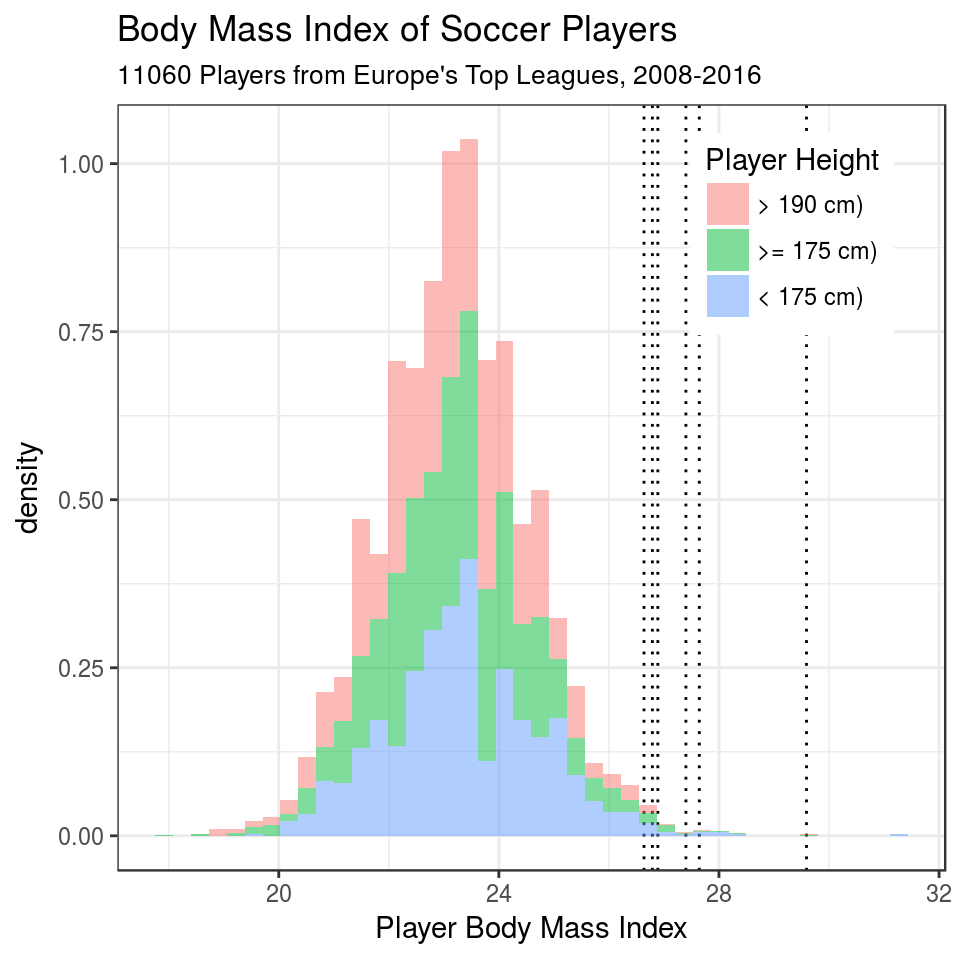
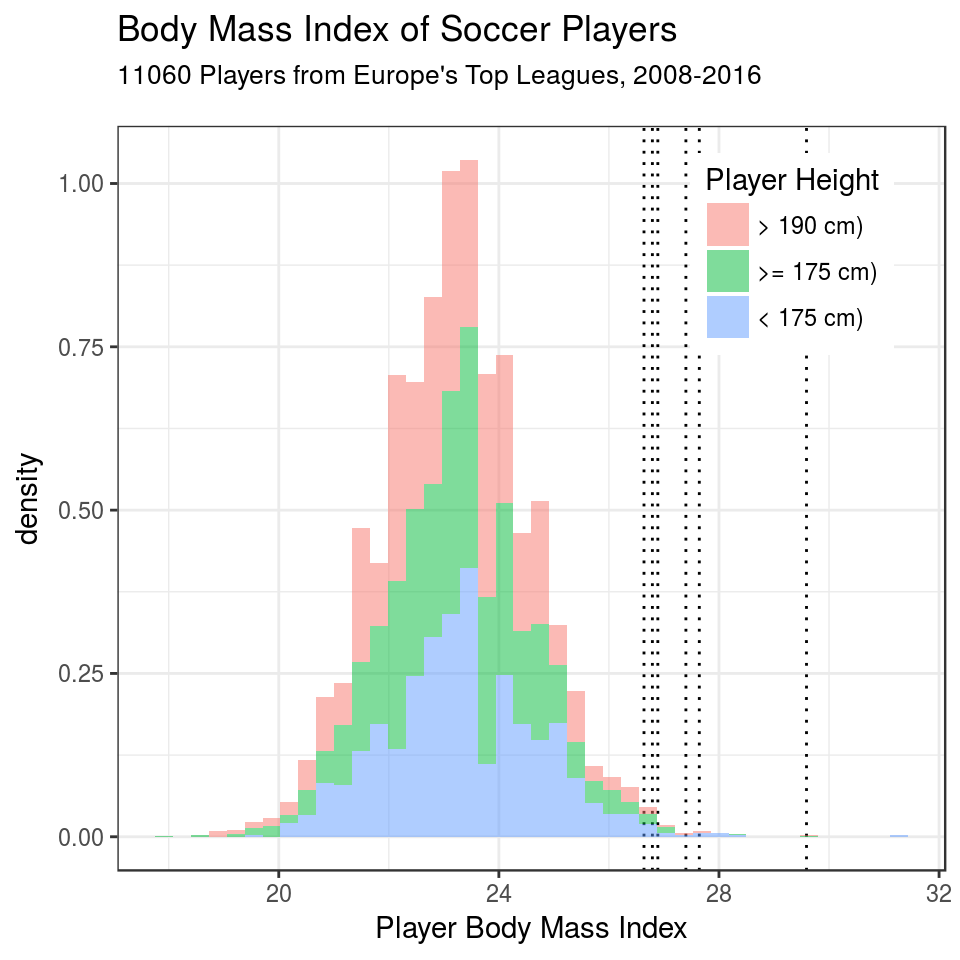
change some histograms, add NHANES us males

diff --git a/public/about/more-about-the-hugo-software/index.html b/public/about/more-about-the-hugo-software/index.html
@@ -1,174 +1,2 @@
-<!-- post/single.html //-->
-<!DOCTYPE html>
-<html lang="en-us">
-        <!-- post/header-post.html //-->
-  <head>
-    <meta charset="utf-8">
-<meta http-equiv="X-UA-Compatible" content="IE=edge">
-<title>More about the Hugo Software</title>
-<meta name="description" content="Knut Behrends&#39; personal blog. A website built through Hugo and blogdown.">
-<meta name="viewport" content="width=device-width, initial-scale=1">
-<meta name="robots" content="all,follow">
-<meta name="googlebot" content="index,follow,snippet,archive">
+<!-- custom layouts/_default/single.html //-->
 
-<link rel="stylesheet" href="/css/bootstrap.min.css">
-<link rel="stylesheet" href="//fonts.googleapis.com/css?family=Roboto:400,300,700,400italic">
-<link rel="stylesheet" href="/css/font-awesome.min.css">
-<link rel="stylesheet" href="/css/owl.carousel.css">
-<link rel="stylesheet" href="/css/owl.theme.css">
-
-
-  <link href="/css/style.green.css" rel="stylesheet" id="theme-stylesheet">
-
- 
-
-  
-    <!--[if lt IE 9]>
-        <script src="https://oss.maxcdn.com/html5shiv/3.7.2/html5shiv.min.js"></script>
-        <script src="https://oss.maxcdn.com/respond/1.4.2/respond.min.js"></script>
-    <![endif]-->
-  
-
-
-<link href="/css/custom.css" rel="stylesheet">
-<link rel="shortcut icon" href="/img/favicon/favicon.png">
-
-
-<script>
-window.ga=window.ga||function(){(ga.q=ga.q||[]).push(arguments)};ga.l=+new Date;
-ga('create', 'UA-38728498-3', 'auto');
-ga('send', 'pageview');
-</script>
-<script async src='//www.google-analytics.com/analytics.js'></script>
-
-
-    
-<link rel="apple-touch-icon" sizes="57x57" href="/img/favicon/apple-icon-57x57.png">
-<link rel="apple-touch-icon" sizes="60x60" href="/img/favicon/apple-icon-60x60.png">
-<link rel="apple-touch-icon" sizes="72x72" href="/img/favicon/apple-icon-72x72.png">
-<link rel="apple-touch-icon" sizes="76x76" href="/img/favicon/apple-icon-76x76.png">
-<link rel="apple-touch-icon" sizes="114x114" href="/img/favicon/apple-icon-114x114.png">
-<link rel="apple-touch-icon" sizes="120x120" href="/img/favicon/apple-icon-120x120.png">
-<link rel="apple-touch-icon" sizes="144x144" href="/img/favicon/apple-icon-144x144.png">
-<link rel="apple-touch-icon" sizes="152x152" href="/img/favicon/apple-icon-152x152.png">
-<link rel="apple-touch-icon" sizes="180x180" href="/img/favicon/apple-icon-180x180.png">
-<link rel="icon" type="image/png" sizes="192x192"  href="/img/favicon/android-icon-192x192.png">
-<link rel="icon" type="image/png" sizes="32x32" href="/img/favicon/favicon-32x32.png">
-<link rel="icon" type="image/png" sizes="96x96" href="/img/favicon/favicon-96x96.png">
-<link rel="icon" type="image/png" sizes="16x16" href="/img/favicon/favicon-16x16.png">
-<link rel="manifest" href="/img/favicon/manifest.json">
-<meta name="msapplication-TileColor" content="#ffffff">
-<meta name="msapplication-TileImage" content="/ms-icon-144x144.png">
-<meta name="theme-color" content="#ffffff">
-
-  </head>
-  <body>
-    <div class="wrapper">
-      <header class="header">
-              <nav class="nav">
-
-  <a href="/" class="nav-logo">
-    
-    <span class="nav-logo-medium"><img src="/img/logo-knutbehrends-square-circle.72x72.png" alt="brain-activity-logo" /></span>
-    
-    </a>
-  <span class="sidebar-heading">
-          <a href="/">Knut Behrends Personal Blog, v3</a>
-  </span>
-  <ul class="nav-links">
-    
-    <li><a href="/">Home</a></li>
-    
-    <li><a href="/post/">Blog</a></li>
-    
-    <li><a href="/about/">About</a></li>
-    
-    <li><a href="/contact/">Get in touch</a></li>
-    
-  </ul>
-</nav>
-
-      </header>
-
-
-<link rel="apple-touch-icon" sizes="57x57" href="/img/favicon/apple-icon-57x57.png">
-<link rel="apple-touch-icon" sizes="60x60" href="/img/favicon/apple-icon-60x60.png">
-<link rel="apple-touch-icon" sizes="72x72" href="/img/favicon/apple-icon-72x72.png">
-<link rel="apple-touch-icon" sizes="76x76" href="/img/favicon/apple-icon-76x76.png">
-<link rel="apple-touch-icon" sizes="114x114" href="/img/favicon/apple-icon-114x114.png">
-<link rel="apple-touch-icon" sizes="120x120" href="/img/favicon/apple-icon-120x120.png">
-<link rel="apple-touch-icon" sizes="144x144" href="/img/favicon/apple-icon-144x144.png">
-<link rel="apple-touch-icon" sizes="152x152" href="/img/favicon/apple-icon-152x152.png">
-<link rel="apple-touch-icon" sizes="180x180" href="/img/favicon/apple-icon-180x180.png">
-<link rel="icon" type="image/png" sizes="192x192"  href="/img/favicon/android-icon-192x192.png">
-<link rel="icon" type="image/png" sizes="32x32" href="/img/favicon/favicon-32x32.png">
-<link rel="icon" type="image/png" sizes="96x96" href="/img/favicon/favicon-96x96.png">
-<link rel="icon" type="image/png" sizes="16x16" href="/img/favicon/favicon-16x16.png">
-<link rel="manifest" href="/img/favicon/manifest.json">
-<meta name="msapplication-TileColor" content="#ffffff">
-<meta name="msapplication-TileImage" content="/ms-icon-144x144.png">
-<meta name="theme-color" content="#ffffff">
-
-
-
-
-<main class="content" role="main">
-
-  <article class="article">
-    
-
-    <h1 class="article-title">More about the Hugo Software</h1>
-
-    
-
-    <div class="article-content">
-      <div id="links-important-to-me" class="section level4">
-<h4>Links important to me</h4>
-<ul>
-<li><a href="https://gohugo.io/variables/page/">Hugo Documentation:: predefined variables</a> Click on the link to go to the Hugo Documentation, (predefined variables).</li>
-<li><a href="https://gohugo.io/content-management/">Hugo Documentation: Content Management</a></li>
-<li><a href="https://www.rstudio.com/wp-content/uploads/2016/03/rmarkdown-cheatsheet-2.0.pdf">RMarkdown Cheat Sheet</a></li>
-</ul>
-</div>
-
-    </div>
-  </article>
-
-  
-
-</main>
-
-<!-- layouts/partials/footer.html //-->
-      <footer class="footer">
-        <ul class="footer-links">
-          <li>
-            <a href="/index.xml" type="application/rss+xml" target="_blank">RSS feed</a>
-          </li>
-        </ul>
-        
-        <script async src="https://www.googletagmanager.com/gtag/js?id=UA-38728498-3"></script>
-
-
-      </footer>
-
-  
-  
-
-  
-
-
-<script src="/js/jquery.min.js"></script>
-<script src="/js/bootstrap.min.js"></script>
-<script src="/js/jquery.cookie.js"> </script>
-<script src="/js/ekko-lightbox.js"></script>
-<script src="/js/jquery.scrollTo.min.js"></script>
-<script src="/js/masonry.pkgd.min.js"></script>
-<script src="/js/imagesloaded.pkgd.min.js"></script>
-<script src="/js/owl.carousel.min.js"></script>
-<script src="/js/front.js"></script>
-<script src="/js/motto-fragments.js"></script>
-<script src="/js/math-code.js"></script>
-<script src="/js/modify-css.js"></script>
-
-</body>
-</html>

diff --git a/public/post/2017/11/european-soccer-players-and-their-bmi/index.html b/public/post/2017/11/european-soccer-players-and-their-bmi/index.html
@@ -123,7 +123,7 @@ ga('send', 'pageview');
 
   <article class="article">
     
-    <span class="article-duration">5 min read</span>
+    <span class="article-duration">7 min read</span>
     
 
     <h1 class="article-title">European Soccer Players and their BMI</h1>
@@ -147,7 +147,8 @@ library(purrr)   # functional programming
 library(stringr)
 library(lubridate) # strings to datetime
 library(ggplot2)
-
+library(NHANES)  # US health data
+data(NHANES)
 theme_set(theme_bw())</code></pre>
 <p>The database consists of 7 tables. We’ll read in all of them although we need only one, the Player table, which contains basic data of ~10000 soccer players from the top leagues of 14 European countries. They are not strictly “European soccer players”, but players from all over the globe, competing in the European Leagues.</p>
 <pre class="r"><code>table_names &lt;- dbListTables(con)
@@ -193,11 +194,12 @@ rng_seas  &lt;- range(Match$season)
 np        &lt;- nrow(Player)</code></pre>
 <p>Display raw histogram with absolute counts:</p>
 <pre class="r"><code># function common to most plots
+# following convention in H.Wickham&#39;s ggplot2 Book, Ch 12
 decorate &lt;- function(x) {
   list(
     ggtitle(
       &quot;Body Mass Index of Soccer Players&quot;,
-      subtitle = sprintf(&quot;%s Players from Europe&#39;s Top Leagues, 2008-2016&quot;, x)
+      subtitle = sprintf(&quot;%s Players from Europe&#39;s Top Leagues, 2008-2016\n&quot;, x)
     ),
     xlab(&quot;Player Body Mass Index&quot;),
     theme(legend.justification = c(1.25, 0.95), legend.position = c(1, 0.95)),
@@ -214,10 +216,12 @@ decorate &lt;- function(x) {
     )
   )
 }</code></pre>
-<pre class="r"><code>Player %&gt;%
+<p>Code for the second plot in the panel below, right half of figure:</p>
+<pre class="r"><code>playerhist &lt;- Player %&gt;%
   ggplot(aes(bmi, fill=size)) + 
 #    geom_histogram(alpha=0.5, bins = diff_bmi*2) +
     geom_histogram(alpha=0.5, bins = diff_bmi*2, position=&quot;identity&quot;) +
+    #xlim(c(0,70)) +
         
     decorate(np) +
     geom_vline(xintercept=med_bmi, size=0.3, 
@@ -228,9 +232,41 @@ decorate &lt;- function(x) {
     geom_vline(xintercept=25.5, size=0.3, color=&quot;darkgrey&quot;) +
     annotate(geom = &quot;text&quot;, x = 27.5, y = 750, 
            label = sprintf(&quot;&lt;- BMI %.1f:\n \&quot;overweight\&quot;&quot;, 25.5), 
-           color=&quot;darkgrey&quot;)</code></pre>
-<p><img src="/post/2017-11-19-european-soccer-players--bmi_files/figure-html/unnamed-chunk-7-1.png" width="576" /></p>
-<p>Who are the largest players with the highest BMI?</p>
+           color=&quot;darkgrey&quot;)
+
+# add size classes to NHANES data set
+NHANES &lt;- NHANES %&gt;%
+        mutate(size = factor(
+                if_else(Height &gt;= sizes[&quot;large&quot;], &quot;large&quot;,
+                        if_else(Height &gt;= sizes[&quot;small&quot;], &quot;medium&quot;, &quot;small&quot;))))
+us_males &lt;- NHANES %&gt;%
+        filter(Age &gt;= 19 , Age &lt;= 35, Gender == &quot;male&quot;)
+nusm &lt;- nrow(us_males)
+usmalehist &lt;- us_males %&gt;%
+        ggplot(aes(BMI, fill=size)) +
+        #    geom_histogram(alpha=0.5, bins = diff_bmi*2) +
+        geom_histogram(alpha=0.5, bins = diff_bmi*2, position=&quot;identity&quot;) +
+        ggtitle(&quot;Body Mass Index of US Males&quot;,
+                subtitle = str_c(
+                        sprintf(&quot;%s Persons, Aged 19-35, in 2009-2912&quot;, nusm),
+                         &quot;from the US National Health and Nutrition Examination Study&quot;,
+                        sep = &quot;\n&quot;)) +
+        xlab(&quot;Body Mass Index&quot;) +
+        #ylim(c(0,1500)) +
+        theme(legend.justification = c(1.25, 0.95),
+              legend.position = c(1, 0.95)) +
+        scale_fill_discrete(name = &quot;Height&quot;,
+                            labels = c(sprintf(&quot;&gt; %s cm)&quot;, sizes[&quot;large&quot;]),
+                                        sprintf(&quot;&gt;= %s cm)&quot;, sizes[&quot;small&quot;]),
+                                        sprintf(&quot;&lt; %s cm)&quot;, sizes[&quot;small&quot;])))
+
+gridExtra::marrangeGrob(list(playerhist, usmalehist), nrow=1, ncol=2, top = &quot;&quot;)</code></pre>
+<p><img src="/post/2017-11-19-european-soccer-players--bmi_files/figure-html/unnamed-chunk-7-1.png" width="864" /></p>
+<p>For comparison, I’ve added the BMI distribution of the general population, American males in this case. I’ve used the NHANES dataset, because it is available as a CRAN package, hence easily installed in R.</p>
+<p>The axes in both plots are scaled differently, but I still prefer to have both plots side-by-side.</p>
+<p>Of course the BMI range is much, much wider for the US men.</p>
+<div id="who-are-the-largest-players-with-the-highest-bmi" class="section level4">
+<h4>Who are the largest players with the highest BMI?</h4>
 <pre class="r"><code>players_large &lt;- Player %&gt;%
   filter(size == &quot;large&quot;) %&gt;%
   arrange(desc(bmi))
@@ -315,6 +351,7 @@ Player %&gt;%
   decorate(np)</code></pre>
 <p><img src="/post/2017-11-19-european-soccer-players--bmi_files/figure-html/histogram_all-1.png" width="480" /></p>
 <p>In the plot above, the BMIs of the players of table 1 are shown as dotted lines.</p>
+<p>(Here the age classes have been stacked on top of each other, in contrast to the previous histogram with the US men)</p>
 <pre class="r"><code>dnorm_fit &lt;- MASS::fitdistr(Player$bmi, densfun = &quot;normal&quot;)
 
 Player %&gt;%
@@ -341,6 +378,7 @@ Player %&gt;%
   theme(legend.position = &quot;none&quot;)</code></pre>
 <p><img src="/post/2017-11-19-european-soccer-players--bmi_files/figure-html/histogram_facets-1.png" width="480" /></p>
 <p>So we see that the BMI of soccer players in the top European Leagues fits pretty well a normal distribution with parameters mean = 23.2 and standard deviation = 1.3.</p>
+</div>
 </div>
 <div id="appendix" class="section level3">
 <h3>Appendix</h3>

diff --git a/content/post/2017-11-19-european-soccer-players--bmi.html b/content/post/2017-11-19-european-soccer-players--bmi.html
@@ -33,7 +33,8 @@ library(purrr)   # functional programming
 library(stringr)
 library(lubridate) # strings to datetime
 library(ggplot2)
-
+library(NHANES)  # US health data
+data(NHANES)
 theme_set(theme_bw())</code></pre>
 <p>The database consists of 7 tables. We’ll read in all of them although we need only one, the Player table, which contains basic data of ~10000 soccer players from the top leagues of 14 European countries. They are not strictly “European soccer players”, but players from all over the globe, competing in the European Leagues.</p>
 <pre class="r"><code>table_names &lt;- dbListTables(con)
@@ -79,11 +80,12 @@ rng_seas  &lt;- range(Match$season)
 np        &lt;- nrow(Player)</code></pre>
 <p>Display raw histogram with absolute counts:</p>
 <pre class="r"><code># function common to most plots
+# following convention in H.Wickham&#39;s ggplot2 Book, Ch 12
 decorate &lt;- function(x) {
   list(
     ggtitle(
       &quot;Body Mass Index of Soccer Players&quot;,
-      subtitle = sprintf(&quot;%s Players from Europe&#39;s Top Leagues, 2008-2016&quot;, x)
+      subtitle = sprintf(&quot;%s Players from Europe&#39;s Top Leagues, 2008-2016\n&quot;, x)
     ),
     xlab(&quot;Player Body Mass Index&quot;),
     theme(legend.justification = c(1.25, 0.95), legend.position = c(1, 0.95)),
@@ -100,10 +102,12 @@ decorate &lt;- function(x) {
     )
   )
 }</code></pre>
-<pre class="r"><code>Player %&gt;%
+<p>Code for the second plot in the panel below, right half of figure:</p>
+<pre class="r"><code>playerhist &lt;- Player %&gt;%
   ggplot(aes(bmi, fill=size)) + 
 #    geom_histogram(alpha=0.5, bins = diff_bmi*2) +
     geom_histogram(alpha=0.5, bins = diff_bmi*2, position=&quot;identity&quot;) +
+    #xlim(c(0,70)) +
         
     decorate(np) +
     geom_vline(xintercept=med_bmi, size=0.3, 
@@ -114,9 +118,41 @@ decorate &lt;- function(x) {
     geom_vline(xintercept=25.5, size=0.3, color=&quot;darkgrey&quot;) +
     annotate(geom = &quot;text&quot;, x = 27.5, y = 750, 
            label = sprintf(&quot;&lt;- BMI %.1f:\n \&quot;overweight\&quot;&quot;, 25.5), 
-           color=&quot;darkgrey&quot;)</code></pre>
-<p><img src="/post/2017-11-19-european-soccer-players--bmi_files/figure-html/unnamed-chunk-7-1.png" width="576" /></p>
-<p>Who are the largest players with the highest BMI?</p>
+           color=&quot;darkgrey&quot;)
+
+# add size classes to NHANES data set
+NHANES &lt;- NHANES %&gt;%
+        mutate(size = factor(
+                if_else(Height &gt;= sizes[&quot;large&quot;], &quot;large&quot;,
+                        if_else(Height &gt;= sizes[&quot;small&quot;], &quot;medium&quot;, &quot;small&quot;))))
+us_males &lt;- NHANES %&gt;%
+        filter(Age &gt;= 19 , Age &lt;= 35, Gender == &quot;male&quot;)
+nusm &lt;- nrow(us_males)
+usmalehist &lt;- us_males %&gt;%
+        ggplot(aes(BMI, fill=size)) +
+        #    geom_histogram(alpha=0.5, bins = diff_bmi*2) +
+        geom_histogram(alpha=0.5, bins = diff_bmi*2, position=&quot;identity&quot;) +
+        ggtitle(&quot;Body Mass Index of US Males&quot;,
+                subtitle = str_c(
+                        sprintf(&quot;%s Persons, Aged 19-35, in 2009-2912&quot;, nusm),
+                         &quot;from the US National Health and Nutrition Examination Study&quot;,
+                        sep = &quot;\n&quot;)) +
+        xlab(&quot;Body Mass Index&quot;) +
+        #ylim(c(0,1500)) +
+        theme(legend.justification = c(1.25, 0.95),
+              legend.position = c(1, 0.95)) +
+        scale_fill_discrete(name = &quot;Height&quot;,
+                            labels = c(sprintf(&quot;&gt; %s cm)&quot;, sizes[&quot;large&quot;]),
+                                        sprintf(&quot;&gt;= %s cm)&quot;, sizes[&quot;small&quot;]),
+                                        sprintf(&quot;&lt; %s cm)&quot;, sizes[&quot;small&quot;])))
+
+gridExtra::marrangeGrob(list(playerhist, usmalehist), nrow=1, ncol=2, top = &quot;&quot;)</code></pre>
+<p><img src="/post/2017-11-19-european-soccer-players--bmi_files/figure-html/unnamed-chunk-7-1.png" width="864" /></p>
+<p>For comparison, I’ve added the BMI distribution of the general population, American males in this case. I’ve used the NHANES dataset, because it is available as a CRAN package, hence easily installed in R.</p>
+<p>The axes in both plots are scaled differently, but I still prefer to have both plots side-by-side.</p>
+<p>Of course the BMI range is much, much wider for the US men.</p>
+<div id="who-are-the-largest-players-with-the-highest-bmi" class="section level4">
+<h4>Who are the largest players with the highest BMI?</h4>
 <pre class="r"><code>players_large &lt;- Player %&gt;%
   filter(size == &quot;large&quot;) %&gt;%
   arrange(desc(bmi))
@@ -201,6 +237,7 @@ Player %&gt;%
   decorate(np)</code></pre>
 <p><img src="/post/2017-11-19-european-soccer-players--bmi_files/figure-html/histogram_all-1.png" width="480" /></p>
 <p>In the plot above, the BMIs of the players of table 1 are shown as dotted lines.</p>
+<p>(Here the age classes have been stacked on top of each other, in contrast to the previous histogram with the US men)</p>
 <pre class="r"><code>dnorm_fit &lt;- MASS::fitdistr(Player$bmi, densfun = &quot;normal&quot;)
 
 Player %&gt;%
@@ -227,6 +264,7 @@ Player %&gt;%
   theme(legend.position = &quot;none&quot;)</code></pre>
 <p><img src="/post/2017-11-19-european-soccer-players--bmi_files/figure-html/histogram_facets-1.png" width="480" /></p>
 <p>So we see that the BMI of soccer players in the top European Leagues fits pretty well a normal distribution with parameters mean = 23.2 and standard deviation = 1.3.</p>
+</div>
 </div>
 <div id="appendix" class="section level3">
 <h3>Appendix</h3>

diff --git a/public/post/index.html b/public/post/index.html
@@ -144,7 +144,7 @@ ga('send', 'pageview');
     <article class="archive-item">
               <a href="/post/2017/11/european-soccer-players-and-their-bmi/" class="archive-item-link">European Soccer Players and their BMI</a>
       
-      <span class="article-duration">5 min read</span>
+      <span class="article-duration">7 min read</span>
       
       <span class="archive-item-date">
         2017/11/22
